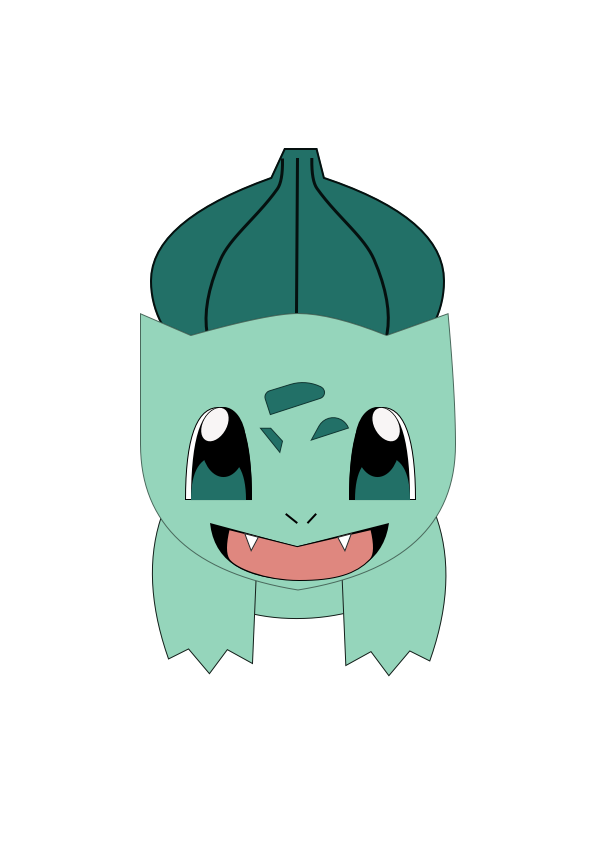
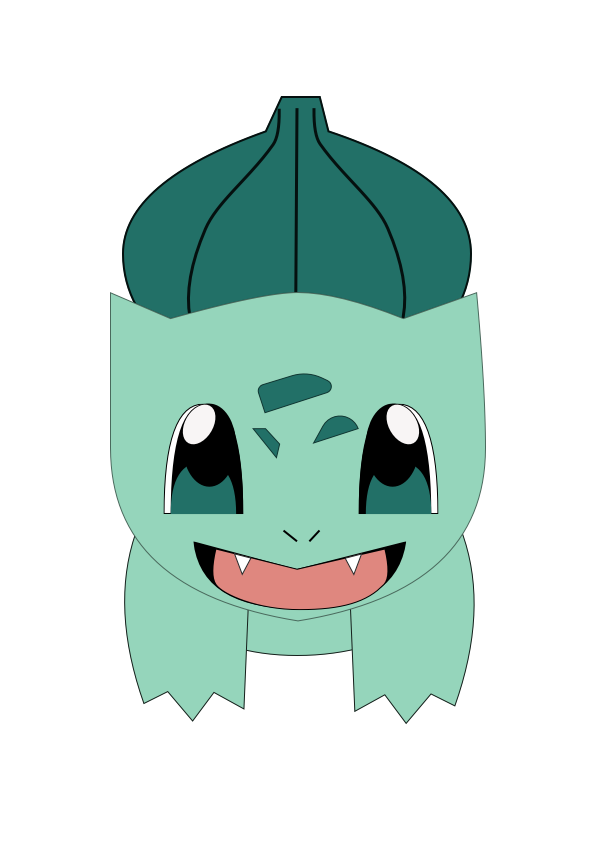
user can select starter pokemon

Changed region(s): [[0.1815, 0.0926, 0.8168, 0.8646]]

diff --git a/index.html b/index.html
@@ -6,14 +6,14 @@
     <body>
         <div class='battle'>
             <div class='img-container'>
-                <img class ='poke-1' src='./assets/squirtle.png'/>
+                <img class ='poke squirtle' src='./assets/squirtle.png'/>
             </div>
             <div class ='attack-vis'></div>
             <div class='img-container'>
-                <img class='poke-2' src='./assets/charmader.png'/>
+                <img class='poke charmander' src='./assets/charmader.png'/>
             </div>
             <div class='img-container'>
-                <img class='poke-3' src='./assets/bulbasaur.png'/>
+                <img class='poke bulbasaur' src='./assets/bulbasaur.png'/>
             </div>
         </div>  
         <div class ='battle-box' id='battle-box'>

diff --git a/app.js b/app.js
@@ -1,9 +1,23 @@
+//variable declarations
 const attackButton = document.querySelector('.battle-click');
 const battleVis = document.querySelector('.attack-vis');
+const pokeStarters = document.querySelectorAll('.poke');
+
+const userPlayer={
+    starter: null,
+}
 const actionStart = function(){
     console.log('heard the click');
     battleVis.style.display = 'inline-block';
     battleVis.style.animation = 'attack-s 4s';
 };
 
+const selectStarter = (event)=>{
+    console.log('pokemon selected!')
+    userPlayer.starter = event.target;
+}
+//event listeners
+pokeStarters.forEach(element=>{
+    element.addEventListener('click',selectStarter);
+})
 attackButton.addEventListener('click', actionStart);

diff --git a/style.css b/style.css
@@ -6,8 +6,8 @@
 }
 
 img{
-    height: auto;
-    width:200px;
+    height: 300px;
+    width:auto;
 }
 
 h1{
